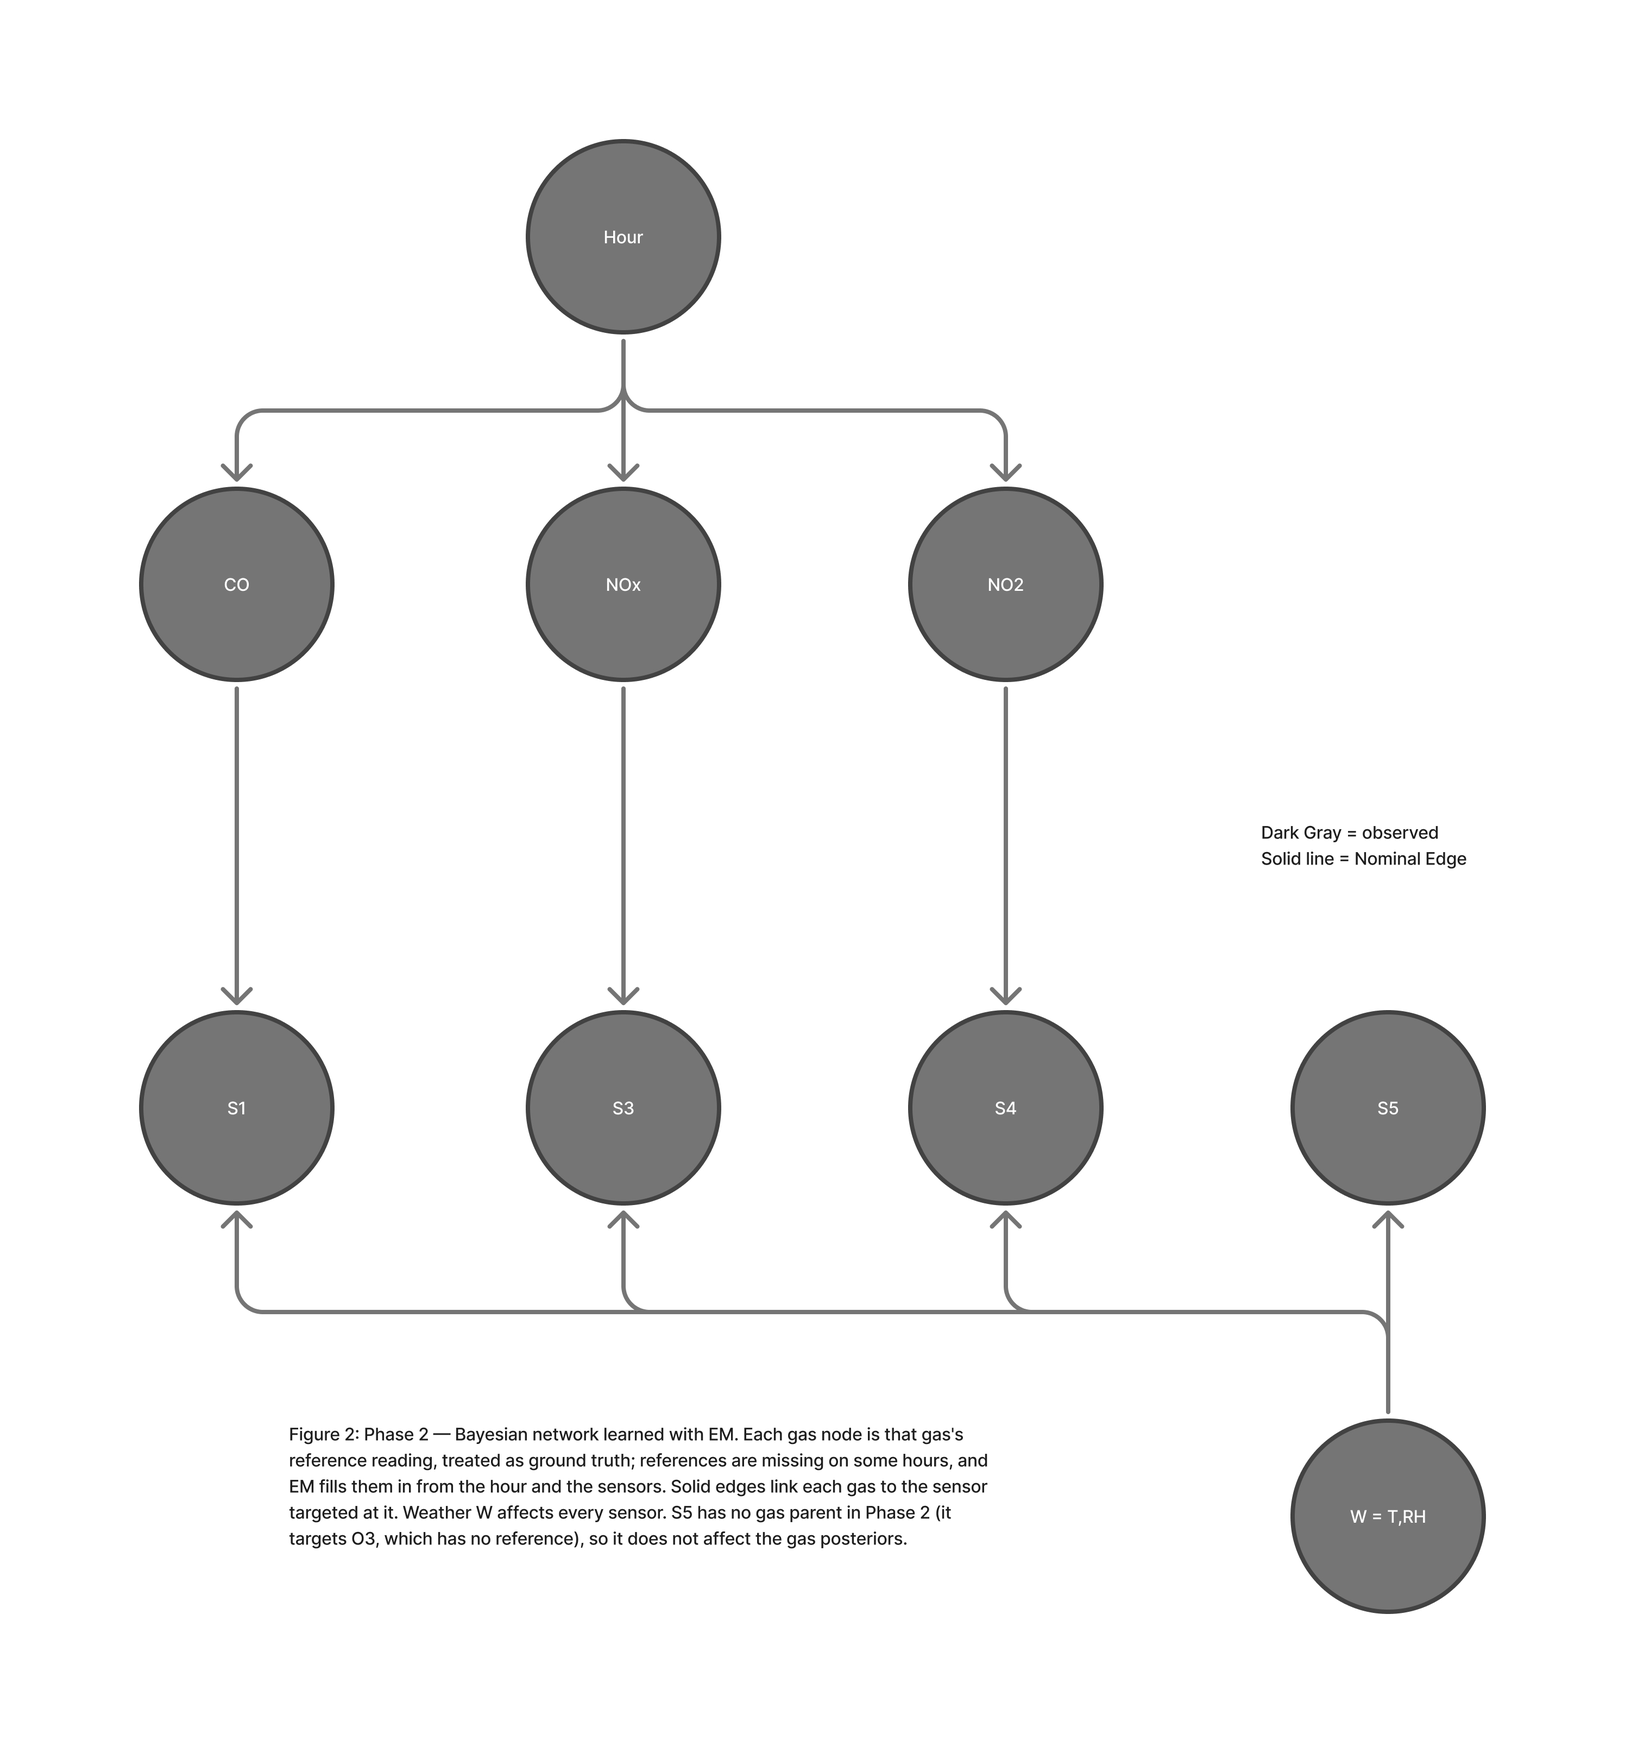
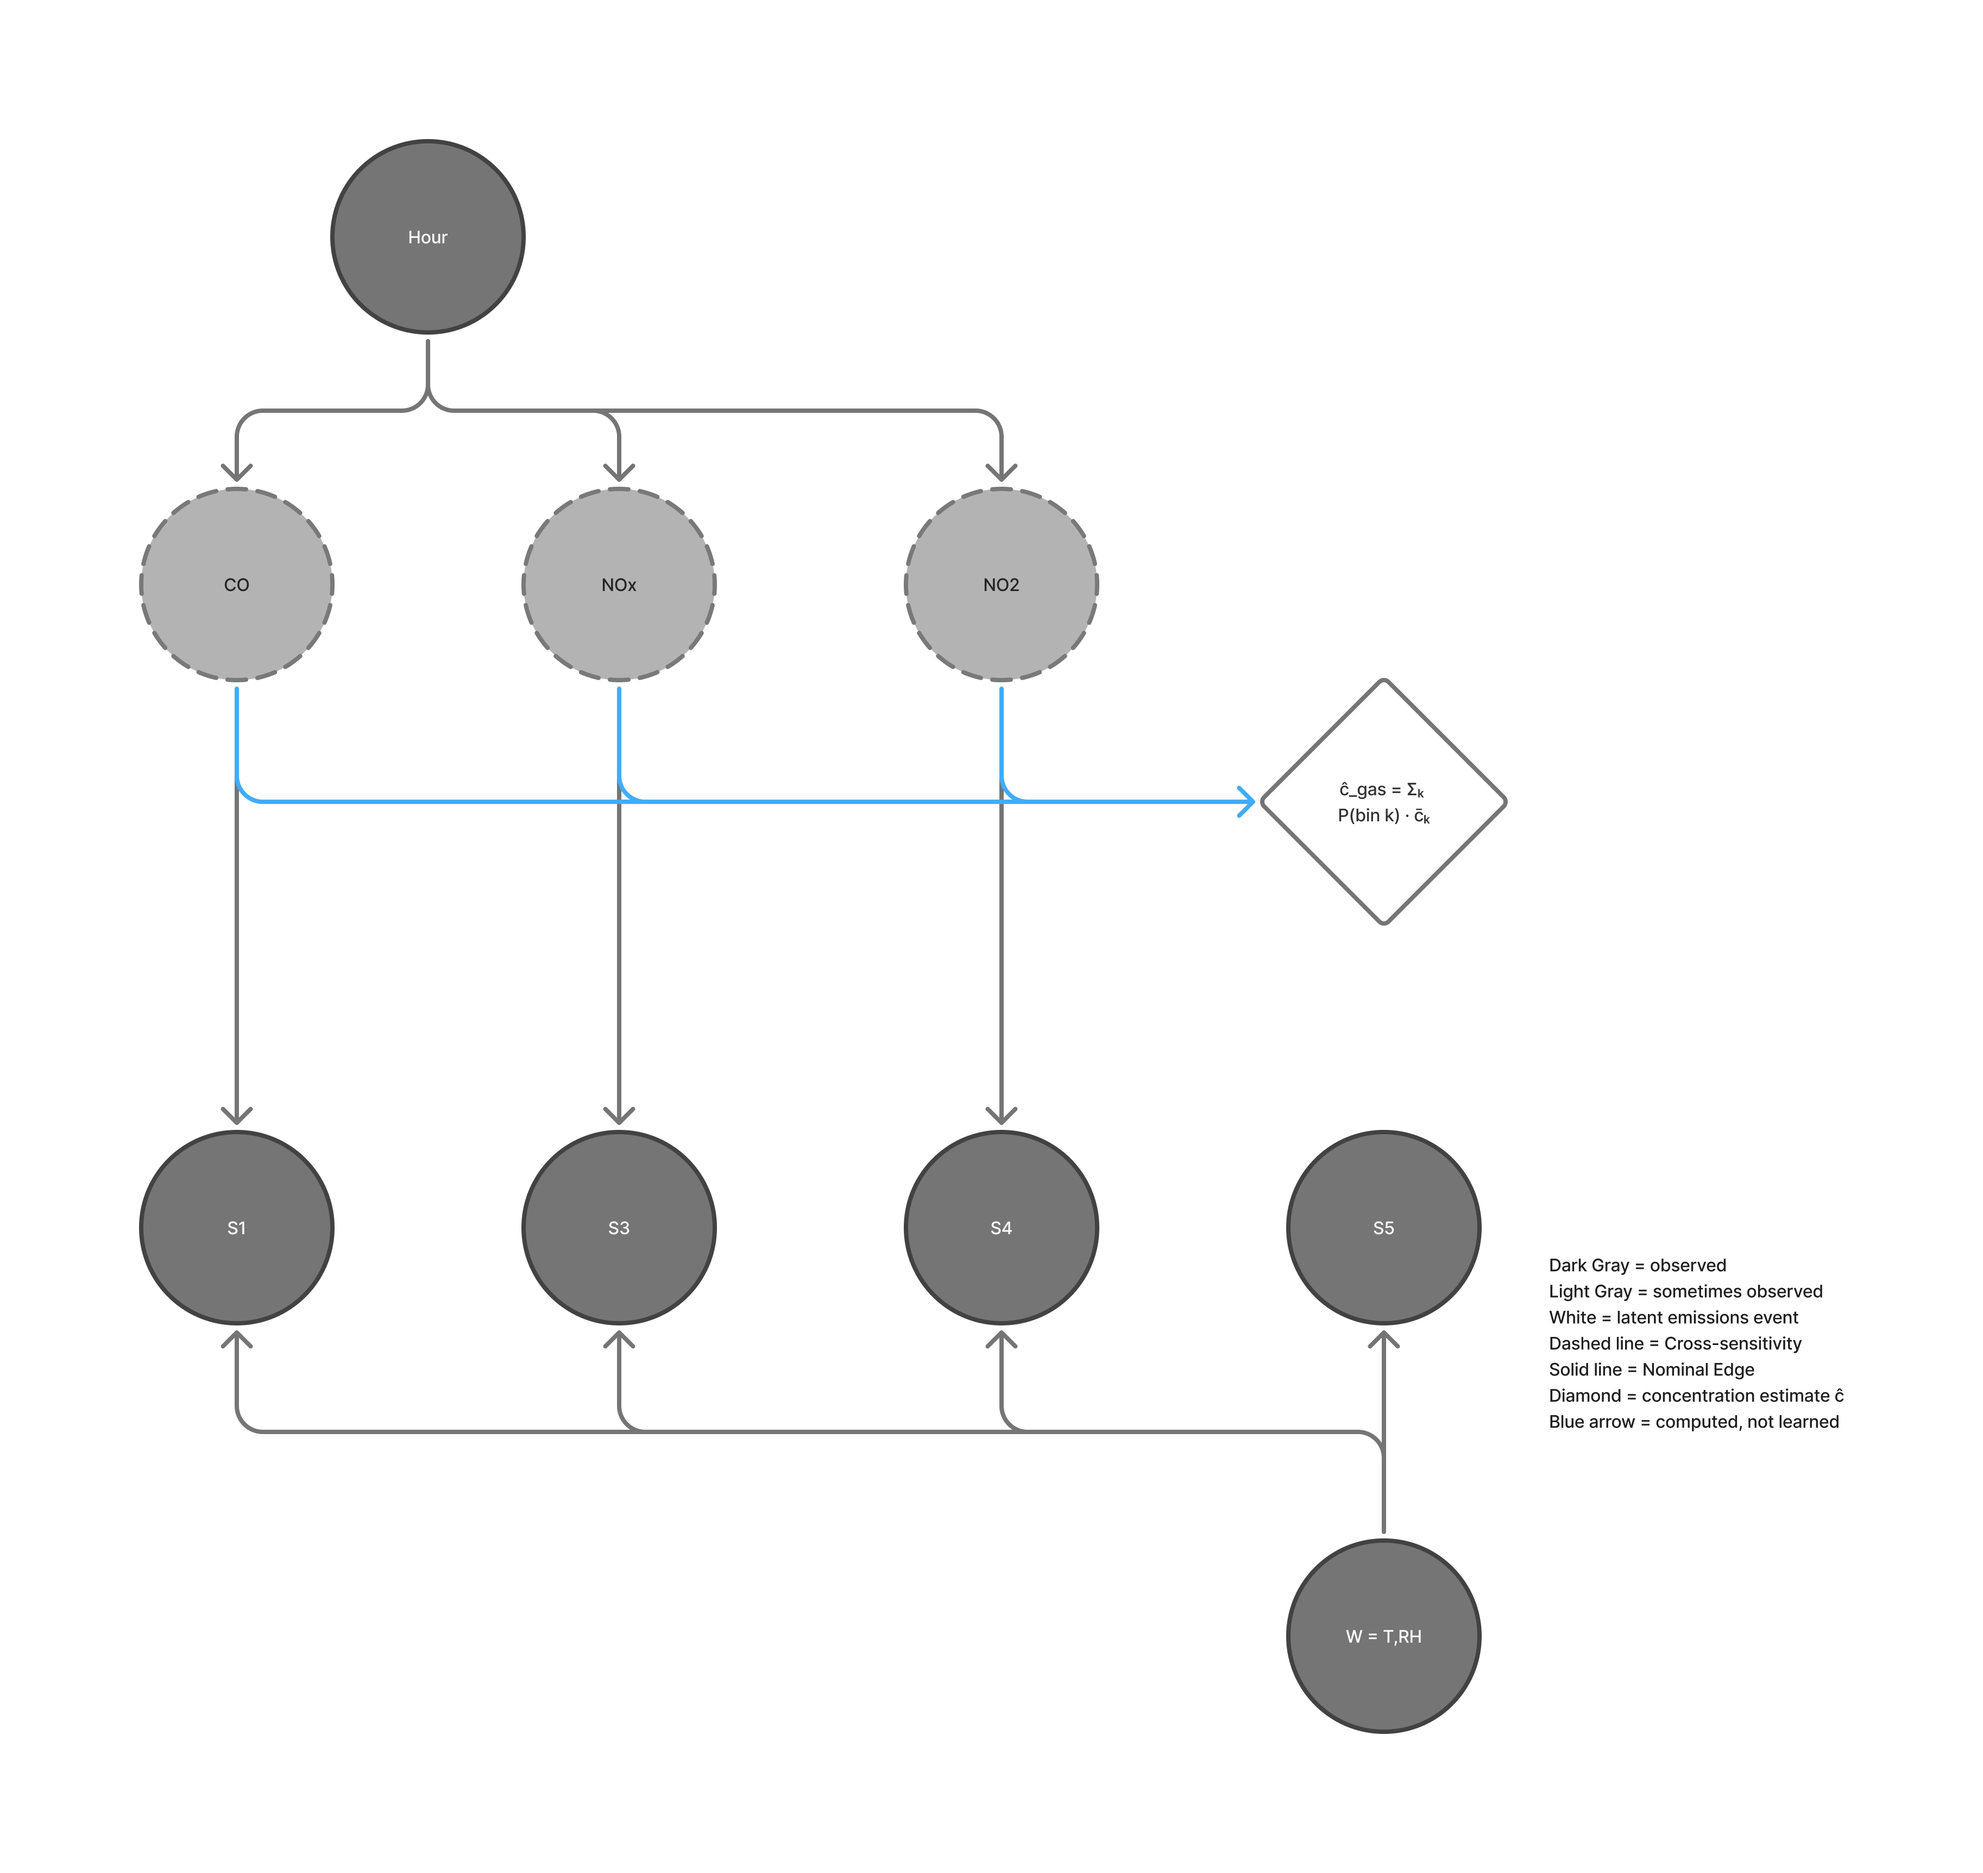
update to make all the diagrams consistent

diff --git a/docs/paper/report/sections/appendix.tex b/docs/paper/report/sections/appendix.tex
@@ -33,7 +33,7 @@ hour~$\to$~gas with the latent emission regime (\cref{sec:latent}).
   \centering
   \begin{subfigure}[t]{0.48\linewidth}
     \centering
-    \includegraphics[width=\linewidth,height=0.25\textheight,keepaspectratio]{hour-only}
+    \includegraphics[width=\linewidth,height=0.25\textheight,keepaspectratio]{phase-0}
     \caption{Hour-only baseline.}
     \label{fig:net-baseline}
   \end{subfigure}\hfill
